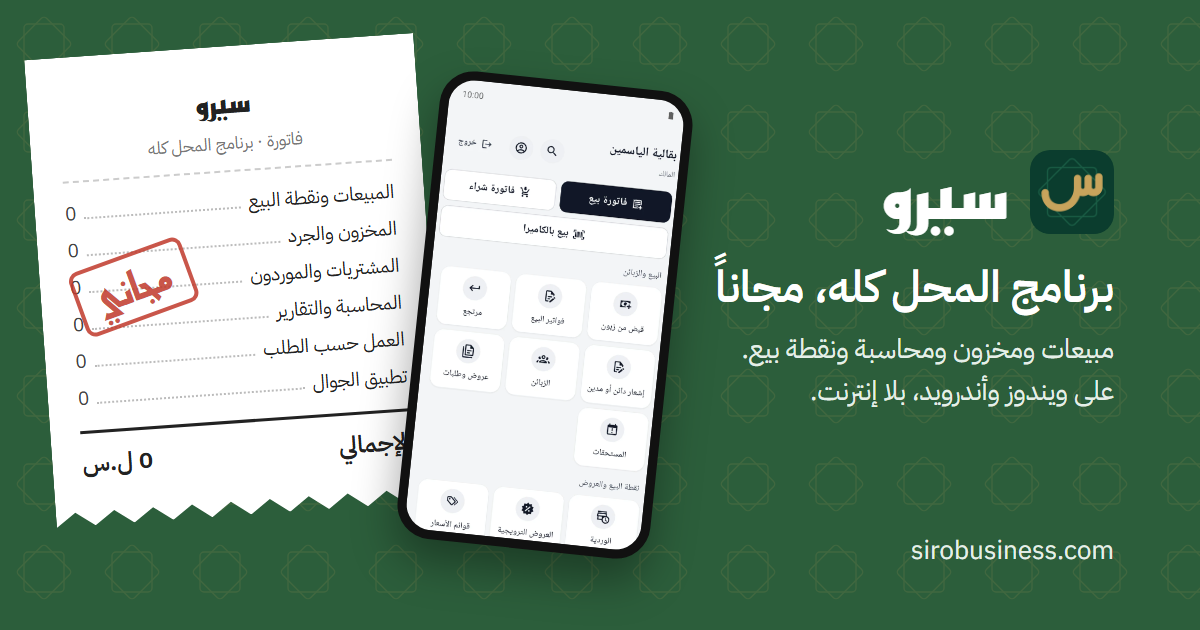
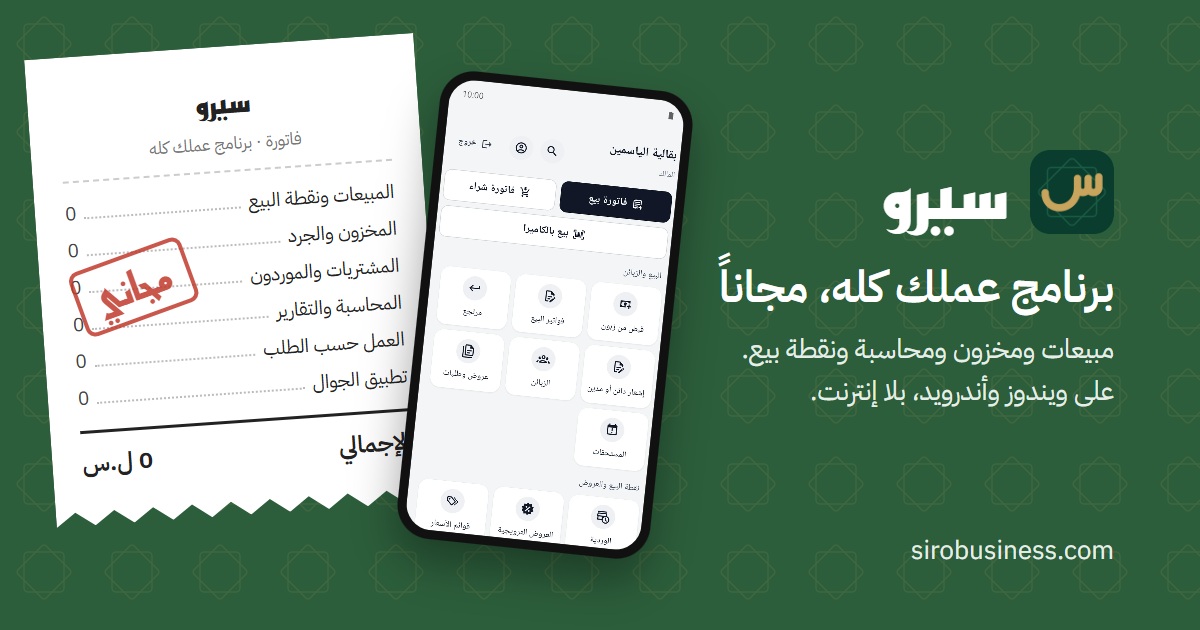
Landing page: Siro is for shops, workshops, restaurants and companies, not shops alone

diff --git a/index.html b/index.html
@@ -5,13 +5,13 @@
 <script>/* the site moved: old github.io links land on the same page at sirobusiness.com */if(location.hostname.endsWith("github.io"))location.replace("https://sirobusiness.com"+location.pathname.replace(/^\/siro-releases/,"")+location.search+location.hash)</script>
 <meta name="viewport" content="width=device-width, initial-scale=1">
 <script>/* which download fits this device (copy in Siro's scripts/help.mjs): `handheld` a phone, tablet or Chromebook (an iPad says it is a Mac, but has touch; Android's «desktop site» says Linux, but not to userAgentData), `ios` no app for it yet, `nowin` Mac or Linux, `win` Windows 10/11 (only the .exe), `oldwin` Windows 7/8 (Chrome says «NT 10.0» there, platformVersion 0.x tells) */(()=>{const n=navigator,u=n.userAgent,d=n.userAgentData,c=document.documentElement.classList,ios=/iPhone|iPad|iPod/.test(u)||(n.platform==="MacIntel"&&n.maxTouchPoints>1);if(ios)c.add("ios");if(ios||/Android|Mobile|CrOS/i.test(u)||/Android/.test(d&&d.platform))c.add("handheld");else if(!/Windows/.test(u))c.add("nowin");else if(/Windows NT [56]\./.test(u))c.add("oldwin");else{c.add("win");if(d&&d.platform==="Windows"&&d.getHighEntropyValues)d.getHighEntropyValues(["platformVersion"]).then(v=>{if(/^0\./.test(v.platformVersion))c.replace("win","oldwin")},()=>{})}})();</script>
-<title>برنامج محاسبة ومخزون مجاني للمحلات في سوريا | سيرو</title>
-<meta name="description" content="سيرو برنامج محاسبة مجاني للمحلات والشركات في سوريا، على ويندوز وأندرويد: مبيعات ونقطة بيع (كاشير)، مخزون ومستودعات، مشتريات وديون وتقارير، بالليرة السورية والدولار. يعمل بلا إنترنت وبياناتك تبقى عندك.">
+<title>برنامج محاسبة ومخزون مجاني للمحلات والمعامل والشركات في سوريا | سيرو</title>
+<meta name="description" content="سيرو برنامج محاسبة مجاني للمحلات والمعامل والمطاعم والشركات في سوريا، على ويندوز وأندرويد: مبيعات ونقطة بيع (كاشير)، مخزون ومستودعات، مشتريات وديون وتقارير، بالليرة السورية والدولار. يعمل بلا إنترنت وبياناتك تبقى عندك.">
 <link rel="canonical" href="https://sirobusiness.com/">
 <script type="application/ld+json">{"@context":"https://schema.org","@graph":[
 {"@type":"Organization","@id":"https://sirobusiness.com/#org","name":"سيرو","alternateName":"Siro","url":"https://sirobusiness.com/","logo":"https://sirobusiness.com/img/apple-touch-icon.png","sameAs":["https://www.youtube.com/@siro-sy","https://www.facebook.com/siro.business","https://play.google.com/store/apps/details?id=com.habrah.siro","https://apps.microsoft.com/detail/XPFD8M60P1GMW0"]},
 {"@type":"WebSite","@id":"https://sirobusiness.com/#site","name":"سيرو","url":"https://sirobusiness.com/","inLanguage":"ar","publisher":{"@id":"https://sirobusiness.com/#org"}},
-{"@type":"SoftwareApplication","name":"سيرو","alternateName":"Siro","url":"https://sirobusiness.com/","applicationCategory":"BusinessApplication","applicationSubCategory":"برنامج محاسبة ومخزون ونقطة بيع","operatingSystem":"Windows, Android","inLanguage":["ar","en"],"description":"برنامج محاسبة مجاني للمحلات والشركات في سوريا: مبيعات ونقطة بيع، مخزون ومستودعات، مشتريات وديون وتقارير، بالليرة السورية والدولار، ويعمل بلا إنترنت.","downloadUrl":"https://sirobusiness.com/download/Siro-Setup.exe","image":"https://sirobusiness.com/og.png?v=5","offers":{"@type":"Offer","price":"0","priceCurrency":"SYP"},"publisher":{"@id":"https://sirobusiness.com/#org"}}
+{"@type":"SoftwareApplication","name":"سيرو","alternateName":"Siro","url":"https://sirobusiness.com/","applicationCategory":"BusinessApplication","applicationSubCategory":"برنامج محاسبة ومخزون ونقطة بيع","operatingSystem":"Windows, Android","inLanguage":["ar","en"],"description":"برنامج محاسبة مجاني للمحلات والمعامل والمطاعم والشركات في سوريا: مبيعات ونقطة بيع، مخزون ومستودعات، مشتريات وديون وتقارير، بالليرة السورية والدولار، ويعمل بلا إنترنت.","downloadUrl":"https://sirobusiness.com/download/Siro-Setup.exe","image":"https://sirobusiness.com/og.png?v=6","offers":{"@type":"Offer","price":"0","priceCurrency":"SYP"},"publisher":{"@id":"https://sirobusiness.com/#org"}}
 ]}</script>
 <meta property="og:type" content="website">
 <meta property="og:site_name" content="سيرو">
@@ -19,14 +19,14 @@
 <meta property="og:url" content="https://sirobusiness.com/">
 <meta property="og:title" content="سيرو: فواتير ومخزون وحسابات، مجاناً">
 <meta property="og:description" content="مبيعات ومخزون ومحاسبة ونقطة بيع على ويندوز وأندرويد. يعمل بلا إنترنت، مجاني بالكامل.">
-<meta property="og:image" content="https://sirobusiness.com/og.png?v=5">
+<meta property="og:image" content="https://sirobusiness.com/og.png?v=6">
 <meta property="og:image:width" content="1200">
 <meta property="og:image:height" content="630">
 <meta property="og:image:alt" content="فاتورة سيرو: كل أقسام البرنامج بصفر ليرة مختومة بكلمة مجاني، وبجانبها تطبيق الجوال">
 <meta name="twitter:card" content="summary_large_image">
 <meta name="twitter:title" content="سيرو: فواتير ومخزون وحسابات، مجاناً">
 <meta name="twitter:description" content="مبيعات ومخزون ومحاسبة ونقطة بيع على ويندوز وأندرويد. يعمل بلا إنترنت، مجاني بالكامل.">
-<meta name="twitter:image" content="https://sirobusiness.com/og.png?v=5">
+<meta name="twitter:image" content="https://sirobusiness.com/og.png?v=6">
 <meta name="theme-color" content="#2f5d3a">
 <link rel="icon" href="favicon.ico" sizes="any">
 <link rel="icon" href="img/icon-64.png" type="image/png">
@@ -224,8 +224,8 @@
   <main>
     <div class="wrap hero">
       <div>
-        <h1>برنامج المحل كله، مجاناً.</h1>
-        <p class="lead">برنامج محاسبة ومبيعات ومخزون للمحلات والشركات في سوريا: نقطة بيع، مشتريات، ديون وتقارير. على الكمبيوتر وعلى الجوال، بلا إنترنت، وبياناتك تبقى عندك.</p>
+        <h1>برنامج عملك كله، مجاناً.</h1>
+        <p class="lead">برنامج محاسبة ومبيعات ومخزون للمحلات والمعامل والمطاعم والشركات في سوريا: نقطة بيع، مشتريات، ديون وتقارير. على الكمبيوتر وعلى الجوال، بلا إنترنت، وبياناتك تبقى عندك.</p>
         <div class="cta">
           <a class="btn" id="download" href="download/Siro-Setup.exe">
             <svg viewBox="0 0 24 24" aria-hidden="true"><path fill="currentColor" d="M3 5.4 10.4 4.4v7.1H3zm8.4-1.1L21 3v8.5h-9.6zM3 12.5h7.4v7.1L3 18.6zm8.4 0H21V21l-9.6-1.3z"/></svg>
@@ -247,7 +247,7 @@
       <div class="receipt-stage" aria-hidden="true">
         <div class="slot"></div>
         <div class="receipt">
-          <div class="r-head"><b>سيرو</b><small>فاتورة · برنامج المحل كله</small></div>
+          <div class="r-head"><b>سيرو</b><small>فاتورة · برنامج عملك كله</small></div>
           <div class="r-row">البيع ونقطة البيع<i></i><em>0</em></div>
           <div class="r-row">المخزون والجرد<i></i><em>0</em></div>
           <div class="r-row">المشتريات والموردون<i></i><em>0</em></div>
@@ -270,7 +270,7 @@
           <div><b id="n-desktop"></b><span>على الكمبيوتر</span><small>برنامج ويندوز</small></div>
           <div><b id="n-phone"></b><span>على الجوال</span><small>تطبيق أندرويد</small></div>
         </div>
-        <p class="note"><i class="live" aria-hidden="true"></i>أرقام حقيقية تُحسب كل ساعة من فحص التحديثات: كل جهاز يُعدّ مرة واحدة برقم عشوائي لتثبيته، بلا أي شيء عنك أو عن محلك. <a href="privacy.html">كيف نعدّها؟</a></p>
+        <p class="note"><i class="live" aria-hidden="true"></i>أرقام حقيقية تُحسب كل ساعة من فحص التحديثات: كل جهاز يُعدّ مرة واحدة برقم عشوائي لتثبيته، بلا أي شيء عنك أو عن عملك. <a href="privacy.html">كيف نعدّها؟</a></p>
       </div>
     </section>
 
@@ -281,16 +281,16 @@
         <div class="device">
           <h3>على الكمبيوتر</h3>
           <div class="gallery">
-            <figure class="main"><img src="img/dashboard.webp?v=3" srcset="img/dashboard-720.webp?v=3 720w, img/dashboard.webp?v=3 1280w, img/dashboard-2560.webp?v=3 2560w" sizes="(max-width: 1152px) calc(100vw - 32px), 1120px" width="1280" height="800" loading="lazy" alt="لوحة المحل: المبيعات والربح والنقدية وما لنا وما علينا والأكثر مبيعاً لهذا الشهر"><figcaption>لوحة المحل: المبيعات والربح والنقدية وما لك وما عليك، بنظرة واحدة.</figcaption></figure>
+            <figure class="main"><img src="img/dashboard.webp?v=3" srcset="img/dashboard-720.webp?v=3 720w, img/dashboard.webp?v=3 1280w, img/dashboard-2560.webp?v=3 2560w" sizes="(max-width: 1152px) calc(100vw - 32px), 1120px" width="1280" height="800" loading="lazy" alt="اللوحة الرئيسية: المبيعات والربح والنقدية وما لنا وما علينا والأكثر مبيعاً لهذا الشهر"><figcaption>اللوحة الرئيسية: المبيعات والربح والنقدية وما لك وما عليك، بنظرة واحدة.</figcaption></figure>
             <figure><img src="img/pos.webp?v=3" srcset="img/pos-720.webp?v=3 720w, img/pos.webp?v=3 1280w, img/pos-2560.webp?v=3 2560w" sizes="(max-width: 860px) calc(100vw - 32px), (max-width: 1152px) calc((100vw - 54px) * 2 / 3), 732px" width="1280" height="800" loading="lazy" alt="نقطة البيع: أصناف بأسعارها وفاتورة مفتوحة"><figcaption>نقطة البيع: باركود، ميزان، درج نقود، ووردية كاشير.</figcaption></figure>
-            <figure class="inv"><img src="img/invoice.webp?v=3" srcset="img/invoice-680.webp?v=3 680w, img/invoice.webp?v=3 1020w" sizes="310px" width="1020" height="964" loading="lazy" alt="فاتورة بيع مطبوعة باسم المحل، وتحتها رصيد الزبون قبلها وبعدها"><figcaption>فواتير باسم محلك وشعاره، على A4 أو رول 80 مم، أو PDF على واتساب.</figcaption></figure>
+            <figure class="inv"><img src="img/invoice.webp?v=3" srcset="img/invoice-680.webp?v=3 680w, img/invoice.webp?v=3 1020w" sizes="310px" width="1020" height="964" loading="lazy" alt="فاتورة بيع مطبوعة باسمك، وتحتها رصيد الزبون قبلها وبعدها"><figcaption>فواتير باسمك وشعارك، على A4 أو رول 80 مم، أو PDF على واتساب.</figcaption></figure>
           </div>
         </div>
         <div class="device">
           <h3>على الجوال</h3>
-          <p class="sub">دفاتر محل كاملة على أندرويد بلا كمبيوتر، أو جهاز للمندوب يتزامن مع كمبيوتر الشركة.</p>
+          <p class="sub">دفاتر كاملة على أندرويد بلا كمبيوتر، أو جهاز للمندوب يتزامن مع كمبيوتر الشركة.</p>
           <div class="phones">
-            <figure><img src="img/phone-home.webp?v=3" srcset="img/phone-home-400.webp?v=3 400w, img/phone-home.webp?v=3 788w" sizes="(max-width: 860px) calc((100vw - 50px) / 2), 264px" width="788" height="1434" loading="lazy" alt="الشاشة الرئيسية للتطبيق: فاتورة بيع وشراء، بيع بالكاميرا، وأقسام المحل"><figcaption>كل شيء من شاشة واحدة</figcaption></figure>
+            <figure><img src="img/phone-home.webp?v=3" srcset="img/phone-home-400.webp?v=3 400w, img/phone-home.webp?v=3 788w" sizes="(max-width: 860px) calc((100vw - 50px) / 2), 264px" width="788" height="1434" loading="lazy" alt="الشاشة الرئيسية للتطبيق: فاتورة بيع وشراء، بيع بالكاميرا، وأقسام البرنامج"><figcaption>كل شيء من شاشة واحدة</figcaption></figure>
             <figure><img src="img/phone-invoice.webp?v=3" srcset="img/phone-invoice-400.webp?v=3 400w, img/phone-invoice.webp?v=3 788w" sizes="(max-width: 860px) calc((100vw - 50px) / 2), 264px" width="788" height="1434" loading="lazy" alt="فاتورة بيع على الجوال بثلاثة أصناف لزبون"><figcaption>فاتورة نقدي أو آجل</figcaption></figure>
             <figure><img src="img/phone-statement.webp?v=3" srcset="img/phone-statement-400.webp?v=3 400w, img/phone-statement.webp?v=3 788w" sizes="(max-width: 860px) calc((100vw - 50px) / 2), 264px" width="788" height="1434" loading="lazy" alt="صفحة زبون: ما عليه، فاتورة وقبض وكشف حساب، وآخر فواتيره"><figcaption>ما على كل زبون وفواتيره</figcaption></figure>
             <figure><img src="img/phone-profit.webp?v=3" srcset="img/phone-profit-400.webp?v=3 400w, img/phone-profit.webp?v=3 788w" sizes="(max-width: 860px) calc((100vw - 50px) / 2), 264px" width="788" height="1434" loading="lazy" alt="الأرباح والخسائر لهذا الشهر"><figcaption>ربحك هذا الشهر</figcaption></figure>

diff --git a/og-src/og.html b/og-src/og.html
@@ -33,7 +33,7 @@
   <div class="pattern"></div>
   <div class="receipt">
     <div class="h">سيرو</div>
-    <div class="s">فاتورة · برنامج المحل كله</div>
+    <div class="s">فاتورة · برنامج عملك كله</div>
     <div class="row">المبيعات ونقطة البيع<i></i><em>0</em></div>
     <div class="row">المخزون والجرد<i></i><em>0</em></div>
     <div class="row">المشتريات والموردون<i></i><em>0</em></div>
@@ -46,7 +46,7 @@
   <div class="phone"><img src="../img/phone-home.webp" alt=""></div>
   <div class="text">
     <div class="brand"><img src="../img/apple-touch-icon.png" alt=""><b>سيرو</b></div>
-    <h1>برنامج المحل كله، مجاناً</h1>
+    <h1>برنامج عملك كله، مجاناً</h1>
     <p>مبيعات ومخزون ومحاسبة ونقطة بيع.<br>على ويندوز وأندرويد، بلا إنترنت.</p>
   </div>
   <div class="url">sirobusiness.com</div>
